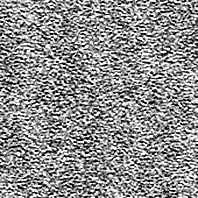
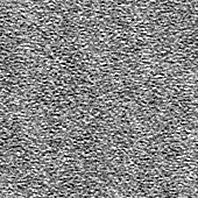
v204: NOMOS grain contrast dialed to std=54 (was 77, too heavy)

diff --git a/index.html b/index.html
@@ -1777,7 +1777,7 @@ function fsPlaySurah() {
 // Load 3D clock immediately
 window._clockContainer=document.getElementById('dialHero');
 const _cs=document.createElement('script');
-_cs.type='module';_cs.src='clock.js?v=203';
+_cs.type='module';_cs.src='clock.js?v=204';
 document.head.appendChild(_cs);
 
 // ══════════════════════════════════════════
